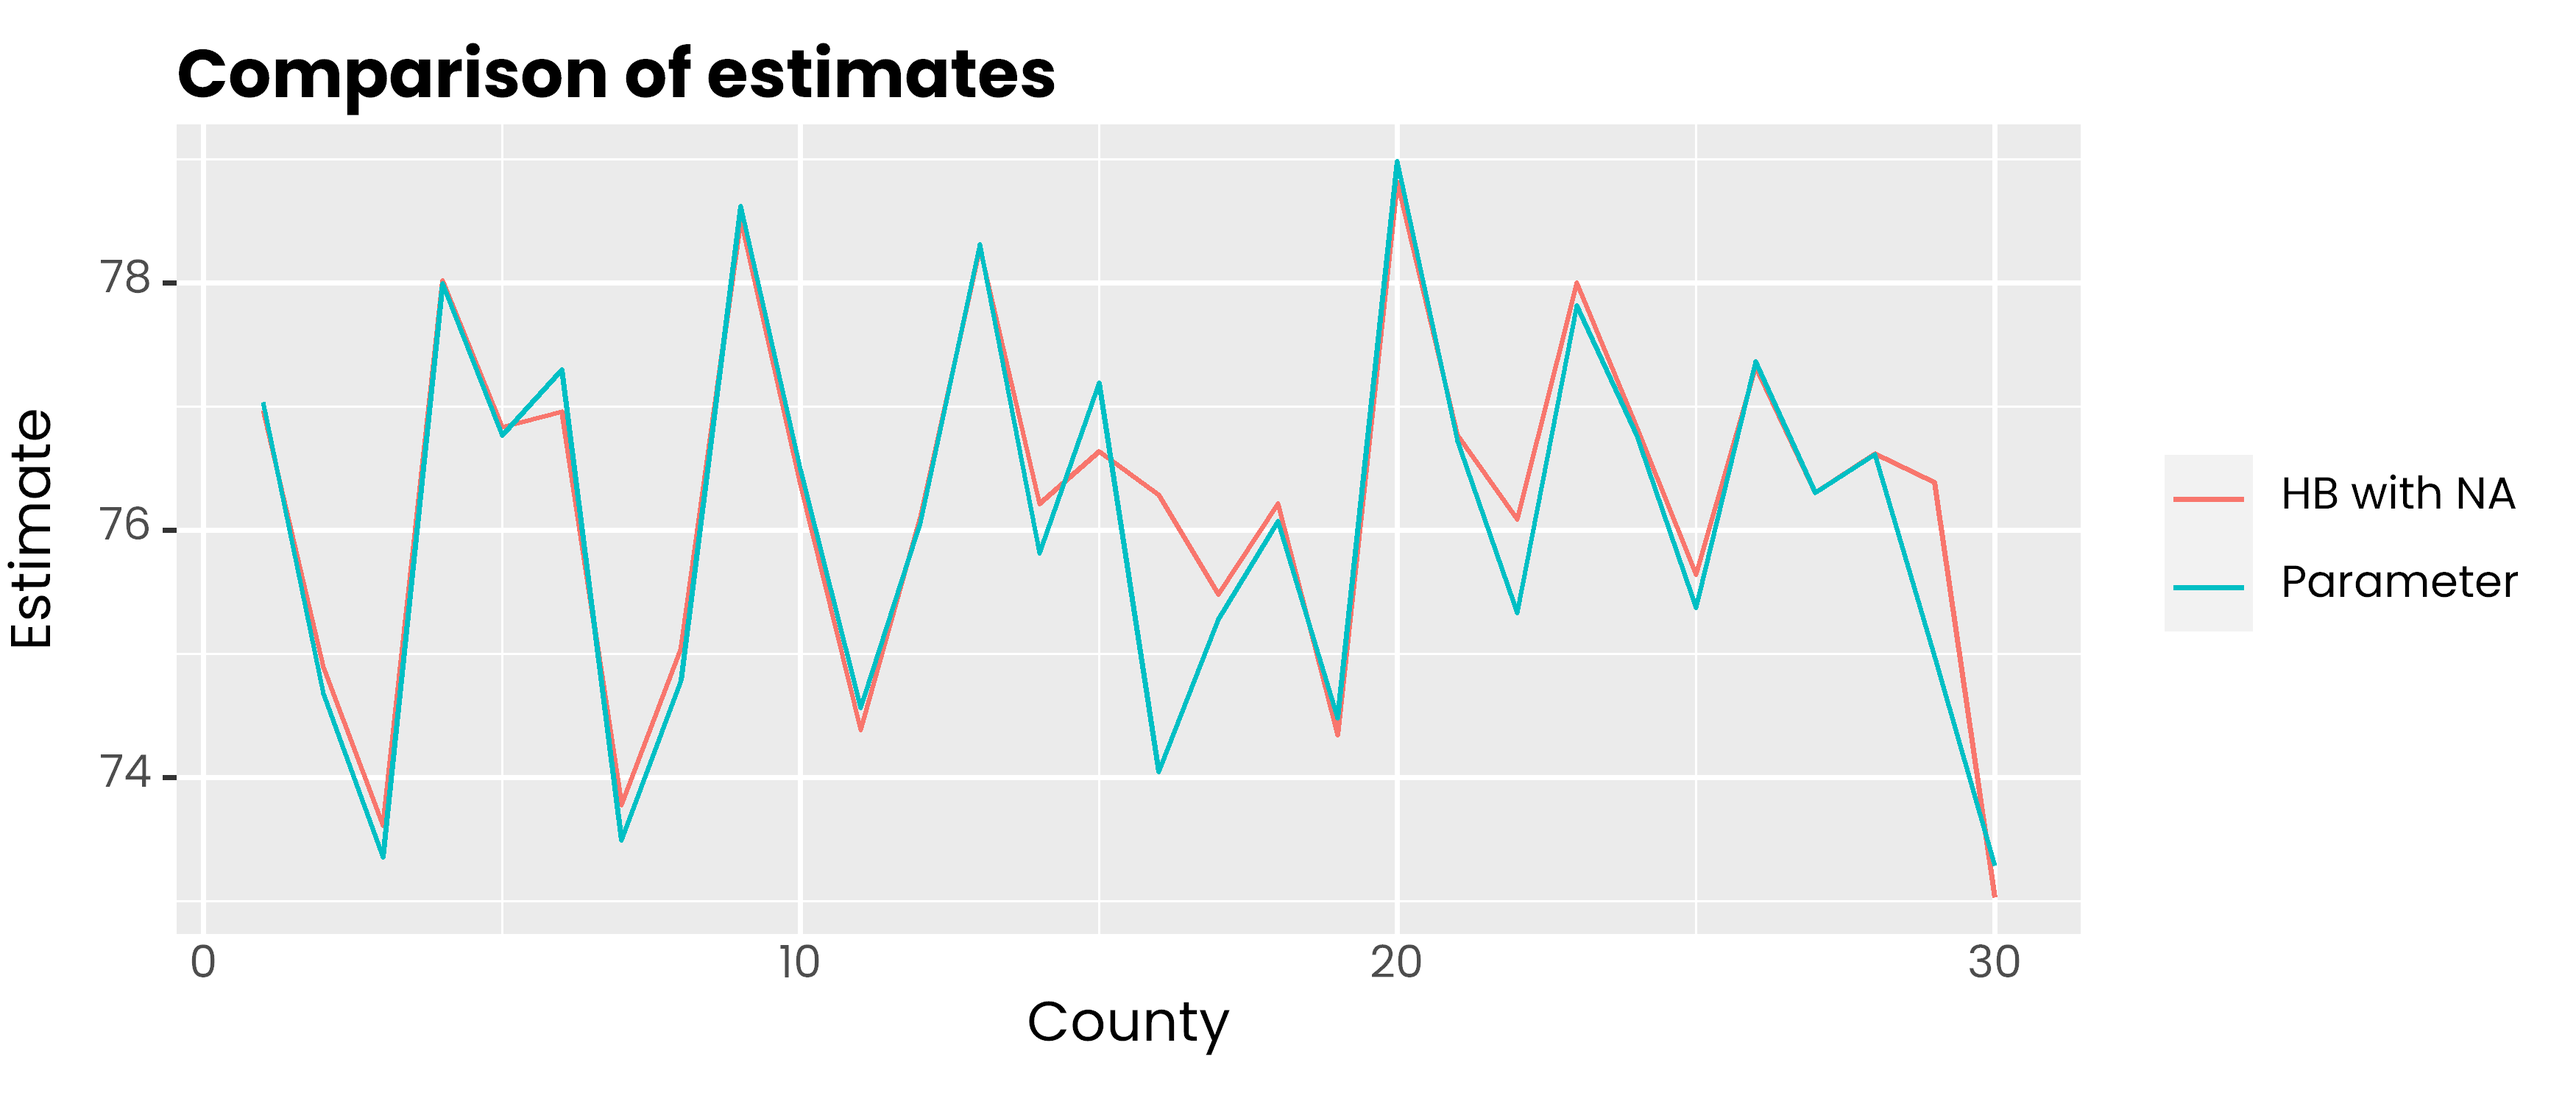
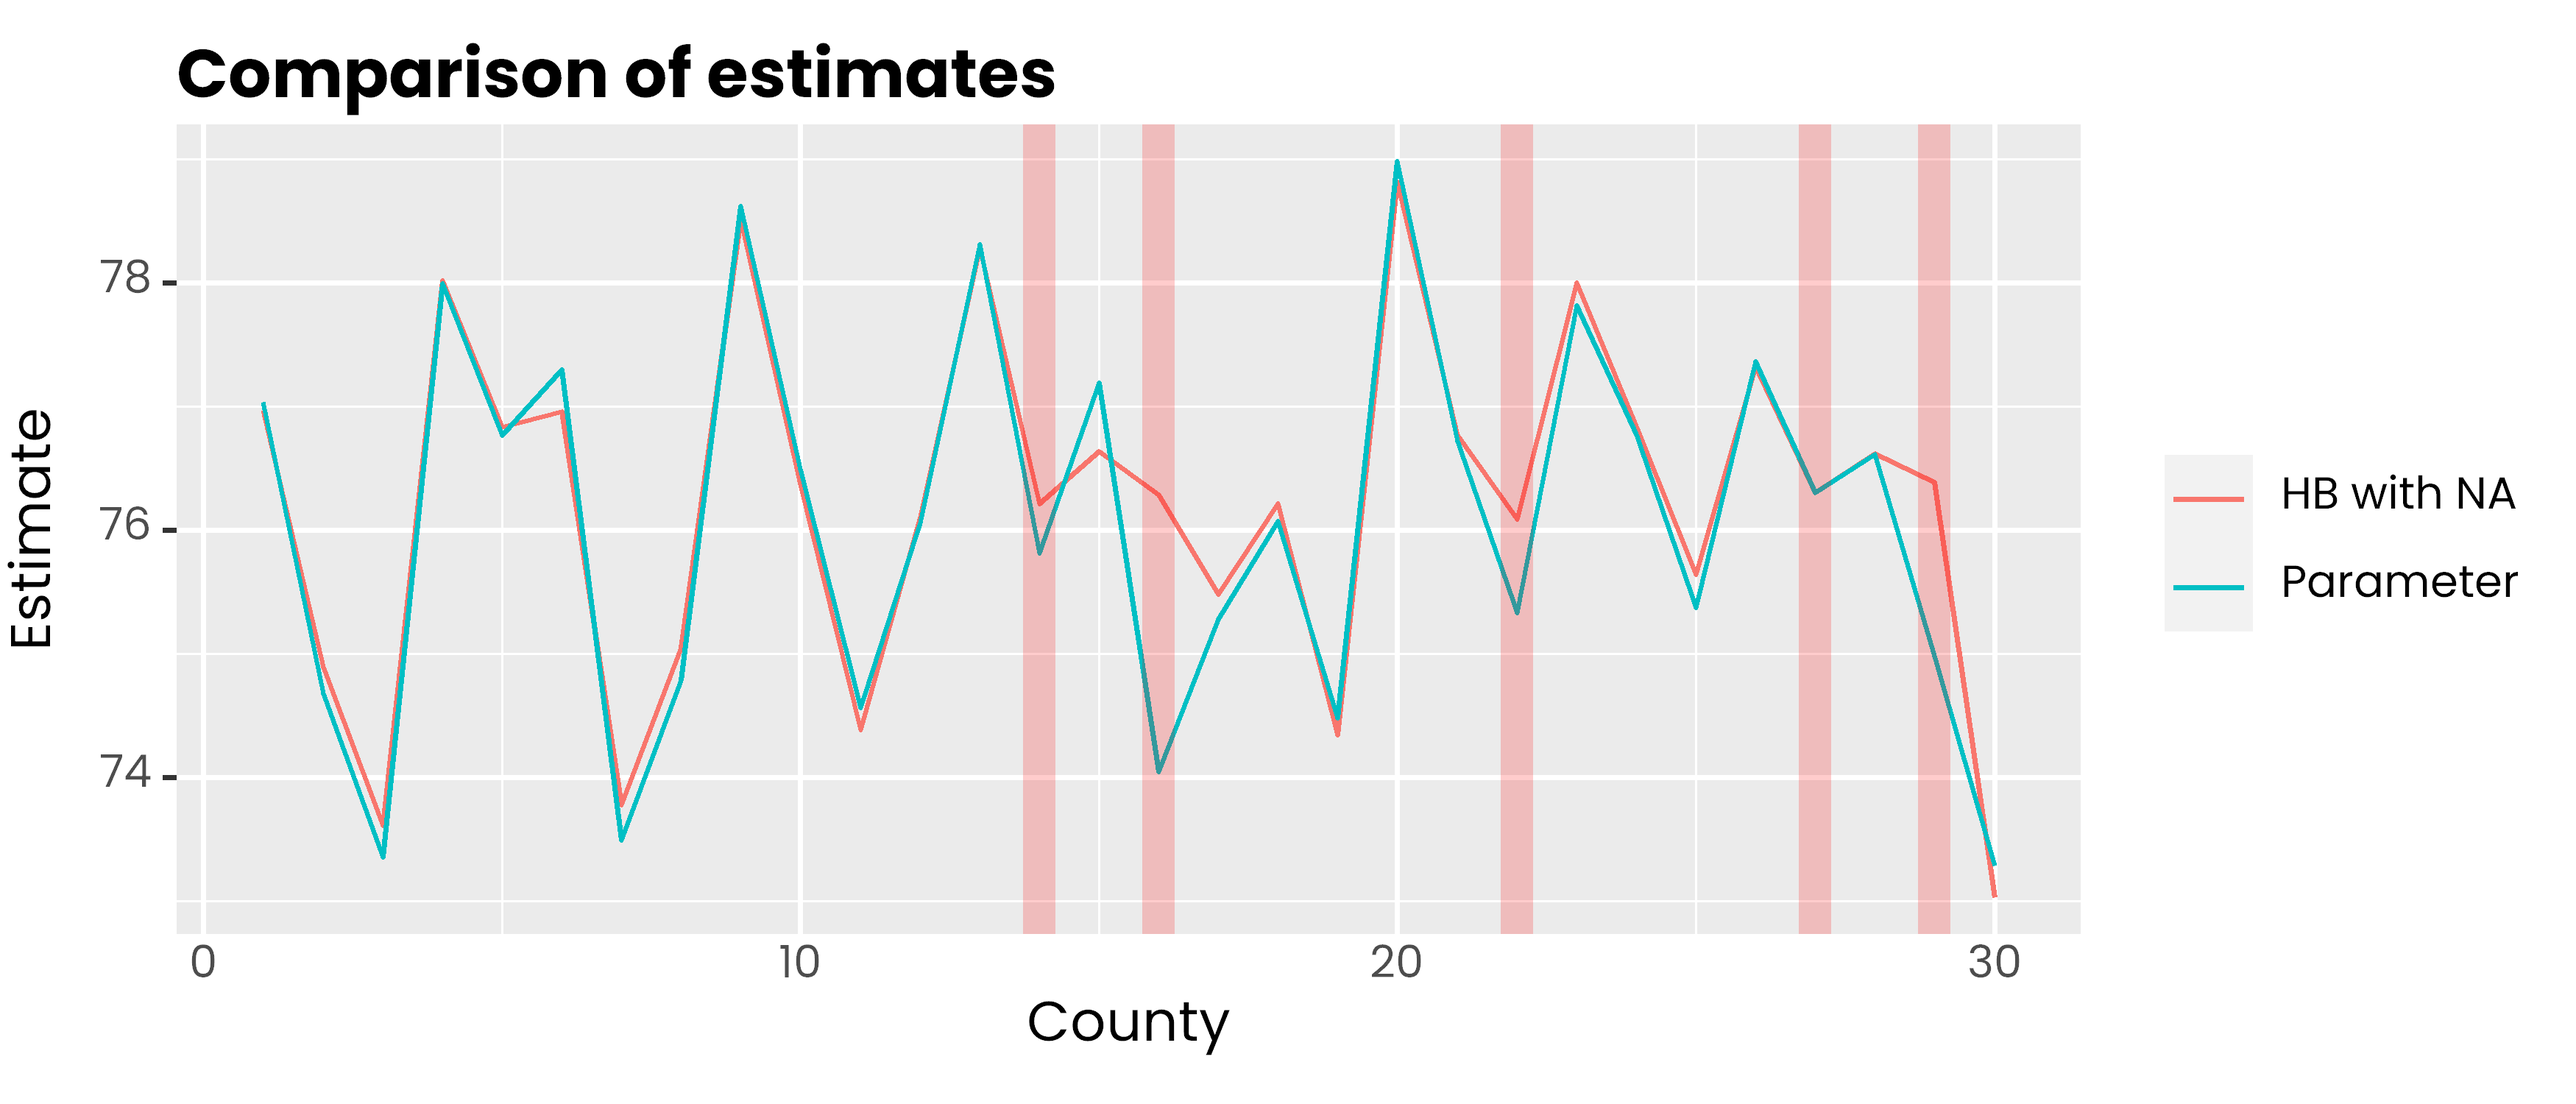
update progress

diff --git a/README.md b/README.md
@@ -111,68 +111,61 @@ corn_eblup <- pbmseBHF(
 #> 
 #> Bootstrap procedure with B = 50 iterations starts.
 #> b = 1 
-#> b = 2 
-#> b = 3 
-#> b = 4
+#> b = 2
 #> boundary (singular) fit: see help('isSingular')
+#> b = 3 
+#> b = 4 
 #> b = 5 
 #> b = 6 
-#> b = 7
+#> b = 7 
+#> b = 8
 #> boundary (singular) fit: see help('isSingular')
-#> b = 8 
 #> b = 9 
-#> b = 10
+#> b = 10 
+#> b = 11
 #> boundary (singular) fit: see help('isSingular')
-#> b = 11 
-#> b = 12
-#> boundary (singular) fit: see help('isSingular')
+#> b = 12 
 #> b = 13 
 #> b = 14 
 #> b = 15 
 #> b = 16 
-#> b = 17 
+#> b = 17
+#> boundary (singular) fit: see help('isSingular')
 #> b = 18
 #> boundary (singular) fit: see help('isSingular')
-#> b = 19
-#> boundary (singular) fit: see help('isSingular')
+#> b = 19 
 #> b = 20 
-#> b = 21
-#> boundary (singular) fit: see help('isSingular')
+#> b = 21 
 #> b = 22 
 #> b = 23 
-#> b = 24
-#> boundary (singular) fit: see help('isSingular')
+#> b = 24 
 #> b = 25 
-#> b = 26
-#> boundary (singular) fit: see help('isSingular')
+#> b = 26 
 #> b = 27 
 #> b = 28 
-#> b = 29
-#> boundary (singular) fit: see help('isSingular')
-#> b = 30
-#> boundary (singular) fit: see help('isSingular')
+#> b = 29 
+#> b = 30 
 #> b = 31 
-#> b = 32
-#> boundary (singular) fit: see help('isSingular')
+#> b = 32 
 #> b = 33 
 #> b = 34 
 #> b = 35 
-#> b = 36 
-#> b = 37
+#> b = 36
 #> boundary (singular) fit: see help('isSingular')
+#> b = 37 
 #> b = 38 
 #> b = 39 
-#> b = 40 
-#> b = 41 
-#> b = 42
+#> b = 40
 #> boundary (singular) fit: see help('isSingular')
+#> b = 41
+#> boundary (singular) fit: see help('isSingular')
+#> b = 42 
 #> b = 43 
-#> b = 44
+#> b = 44 
+#> b = 45
 #> boundary (singular) fit: see help('isSingular')
-#> b = 45 
 #> b = 46 
-#> b = 47
-#> boundary (singular) fit: see help('isSingular')
+#> b = 47 
 #> b = 48 
 #> b = 49 
 #> b = 50
@@ -349,6 +342,7 @@ data.frame(
   pivot_longer(-1, names_to = "metode", values_to = "rse") %>%
   ggplot(aes(x = id, y = rse, col = metode)) +
   geom_line() +
+  geom_vline(xintercept = c(14, 16, 22, 27, 29), color = 'red', alpha = 0.2, lwd = 3) +
   scale_color_discrete(
     labels = c('HB with NA', 'Parameter')
   ) +
